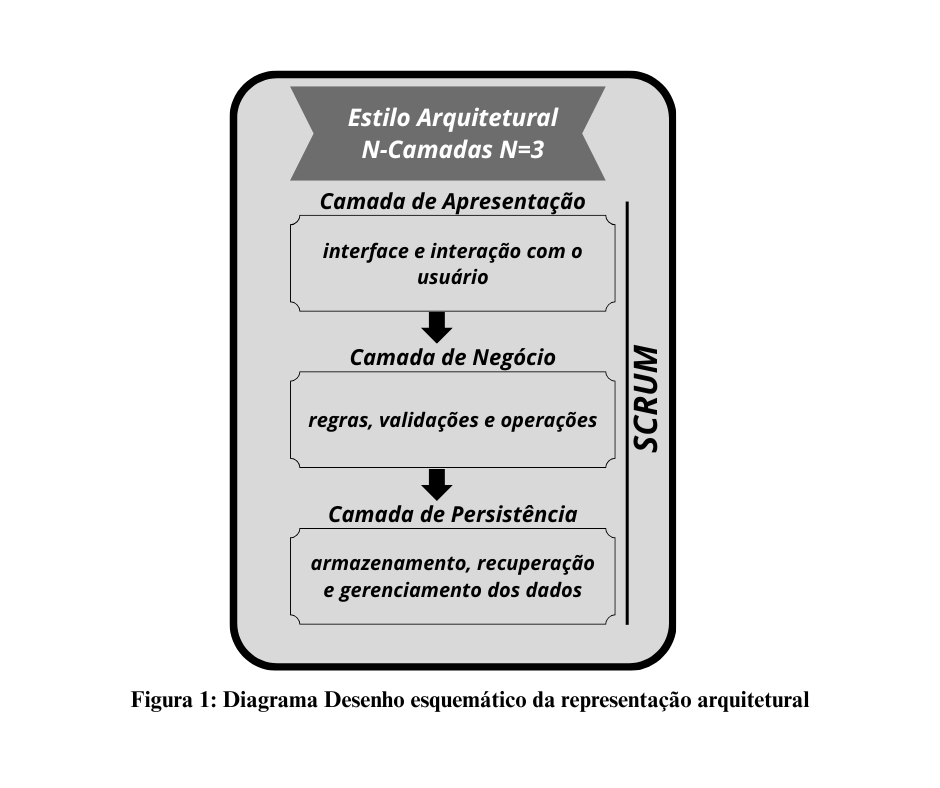
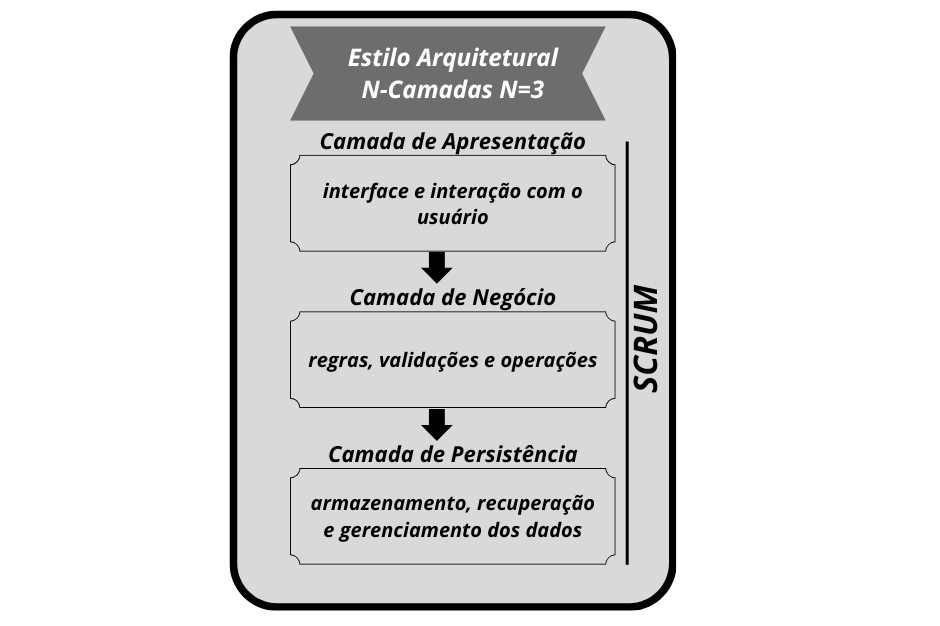
📝 atualizaçoes no arquivo de representacao arquitetural

Changed region(s): [[0.216, 0.0, 0.7404, 0.3642], [0.3085, 0.3642, 0.7096, 0.7588], [0.1234, 0.7891, 0.8638, 1.0]]

diff --git a/docs/docs/arquitetura/b-representacao-arquitetural.md b/docs/docs/arquitetura/b-representacao-arquitetural.md
@@ -56,9 +56,8 @@ Essa divisão modular facilita a manutenção e os testes independentes de cada 
 
 ### Representação Visual da Arquitetura: 
 
- ![Representação Visual da Arquitetura](../../static/img/image6.png)                             
+![Representação Visual da Arquitetura](../../static/img/esquematico%20representação%20arquitetural.png)                             
 
-Figura 1: Diagrama Desenho esquemático da representação arquitetural
 
 Foi elaborado um diagrama arquitetural que ilustra a divisão em camadas, os fluxos de dados e a comunicação entre os componentes. Portanto, nosso modelo arquitetural pode ser resumido como:
 
